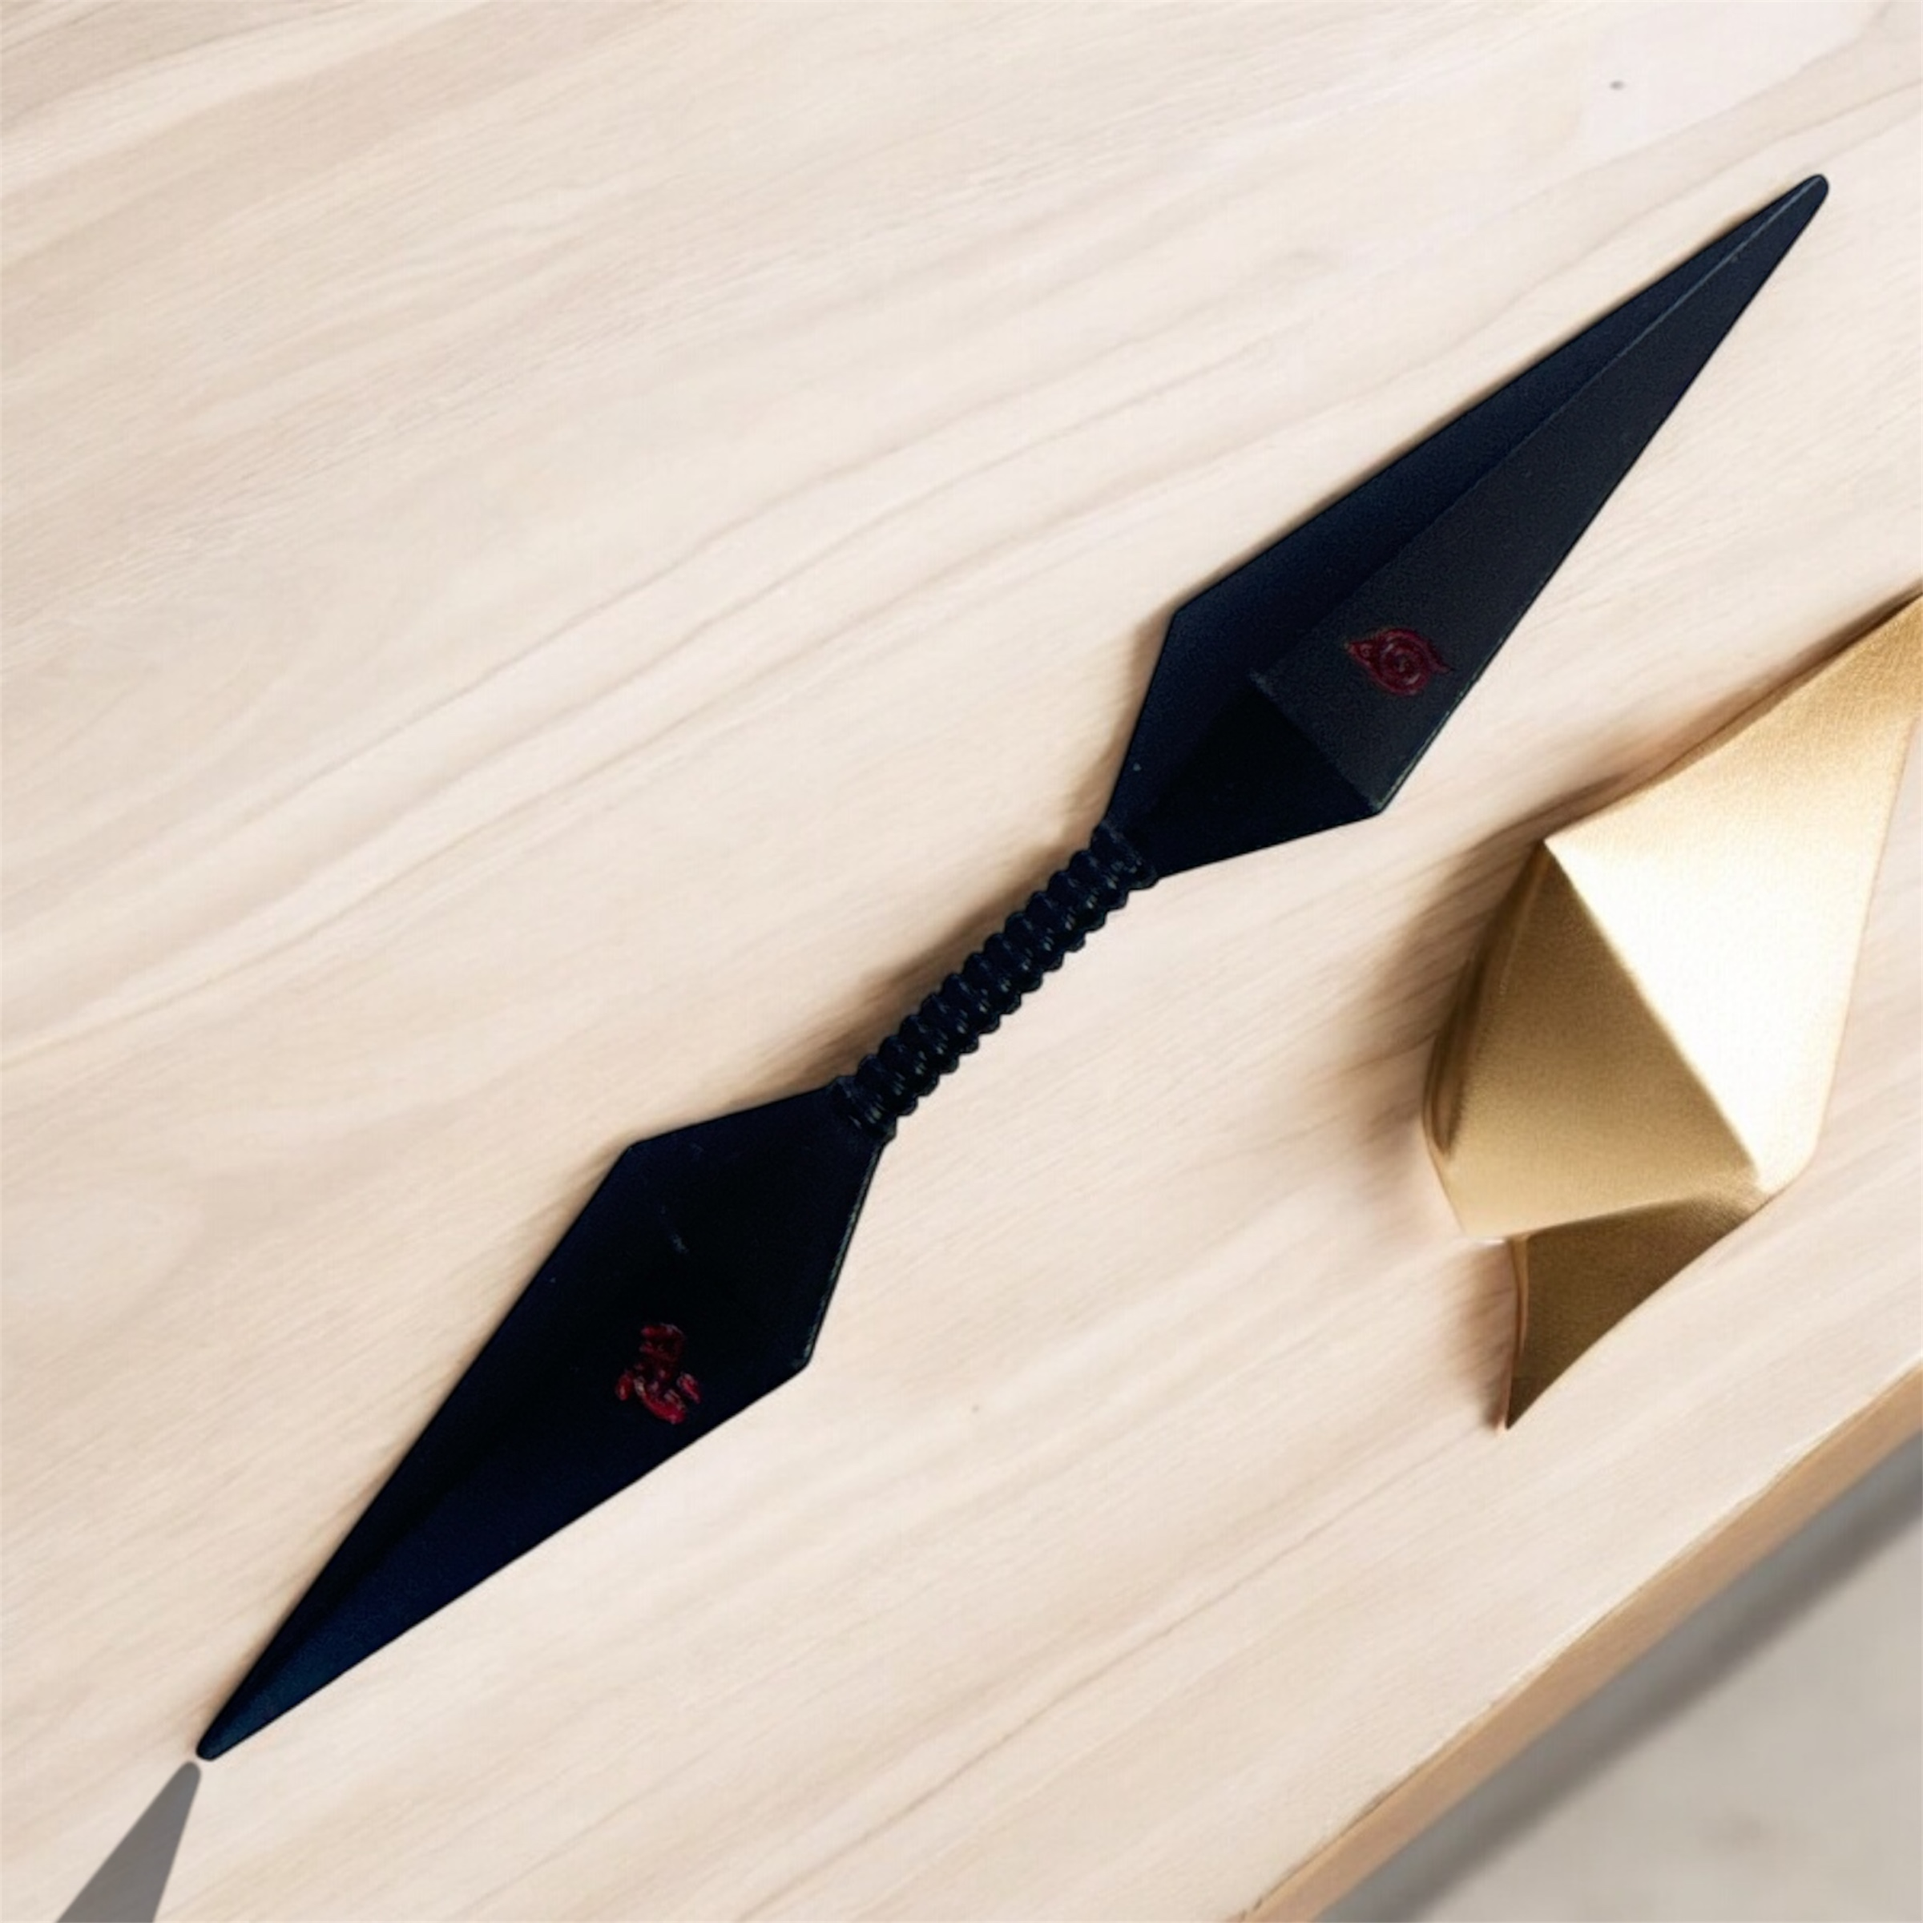
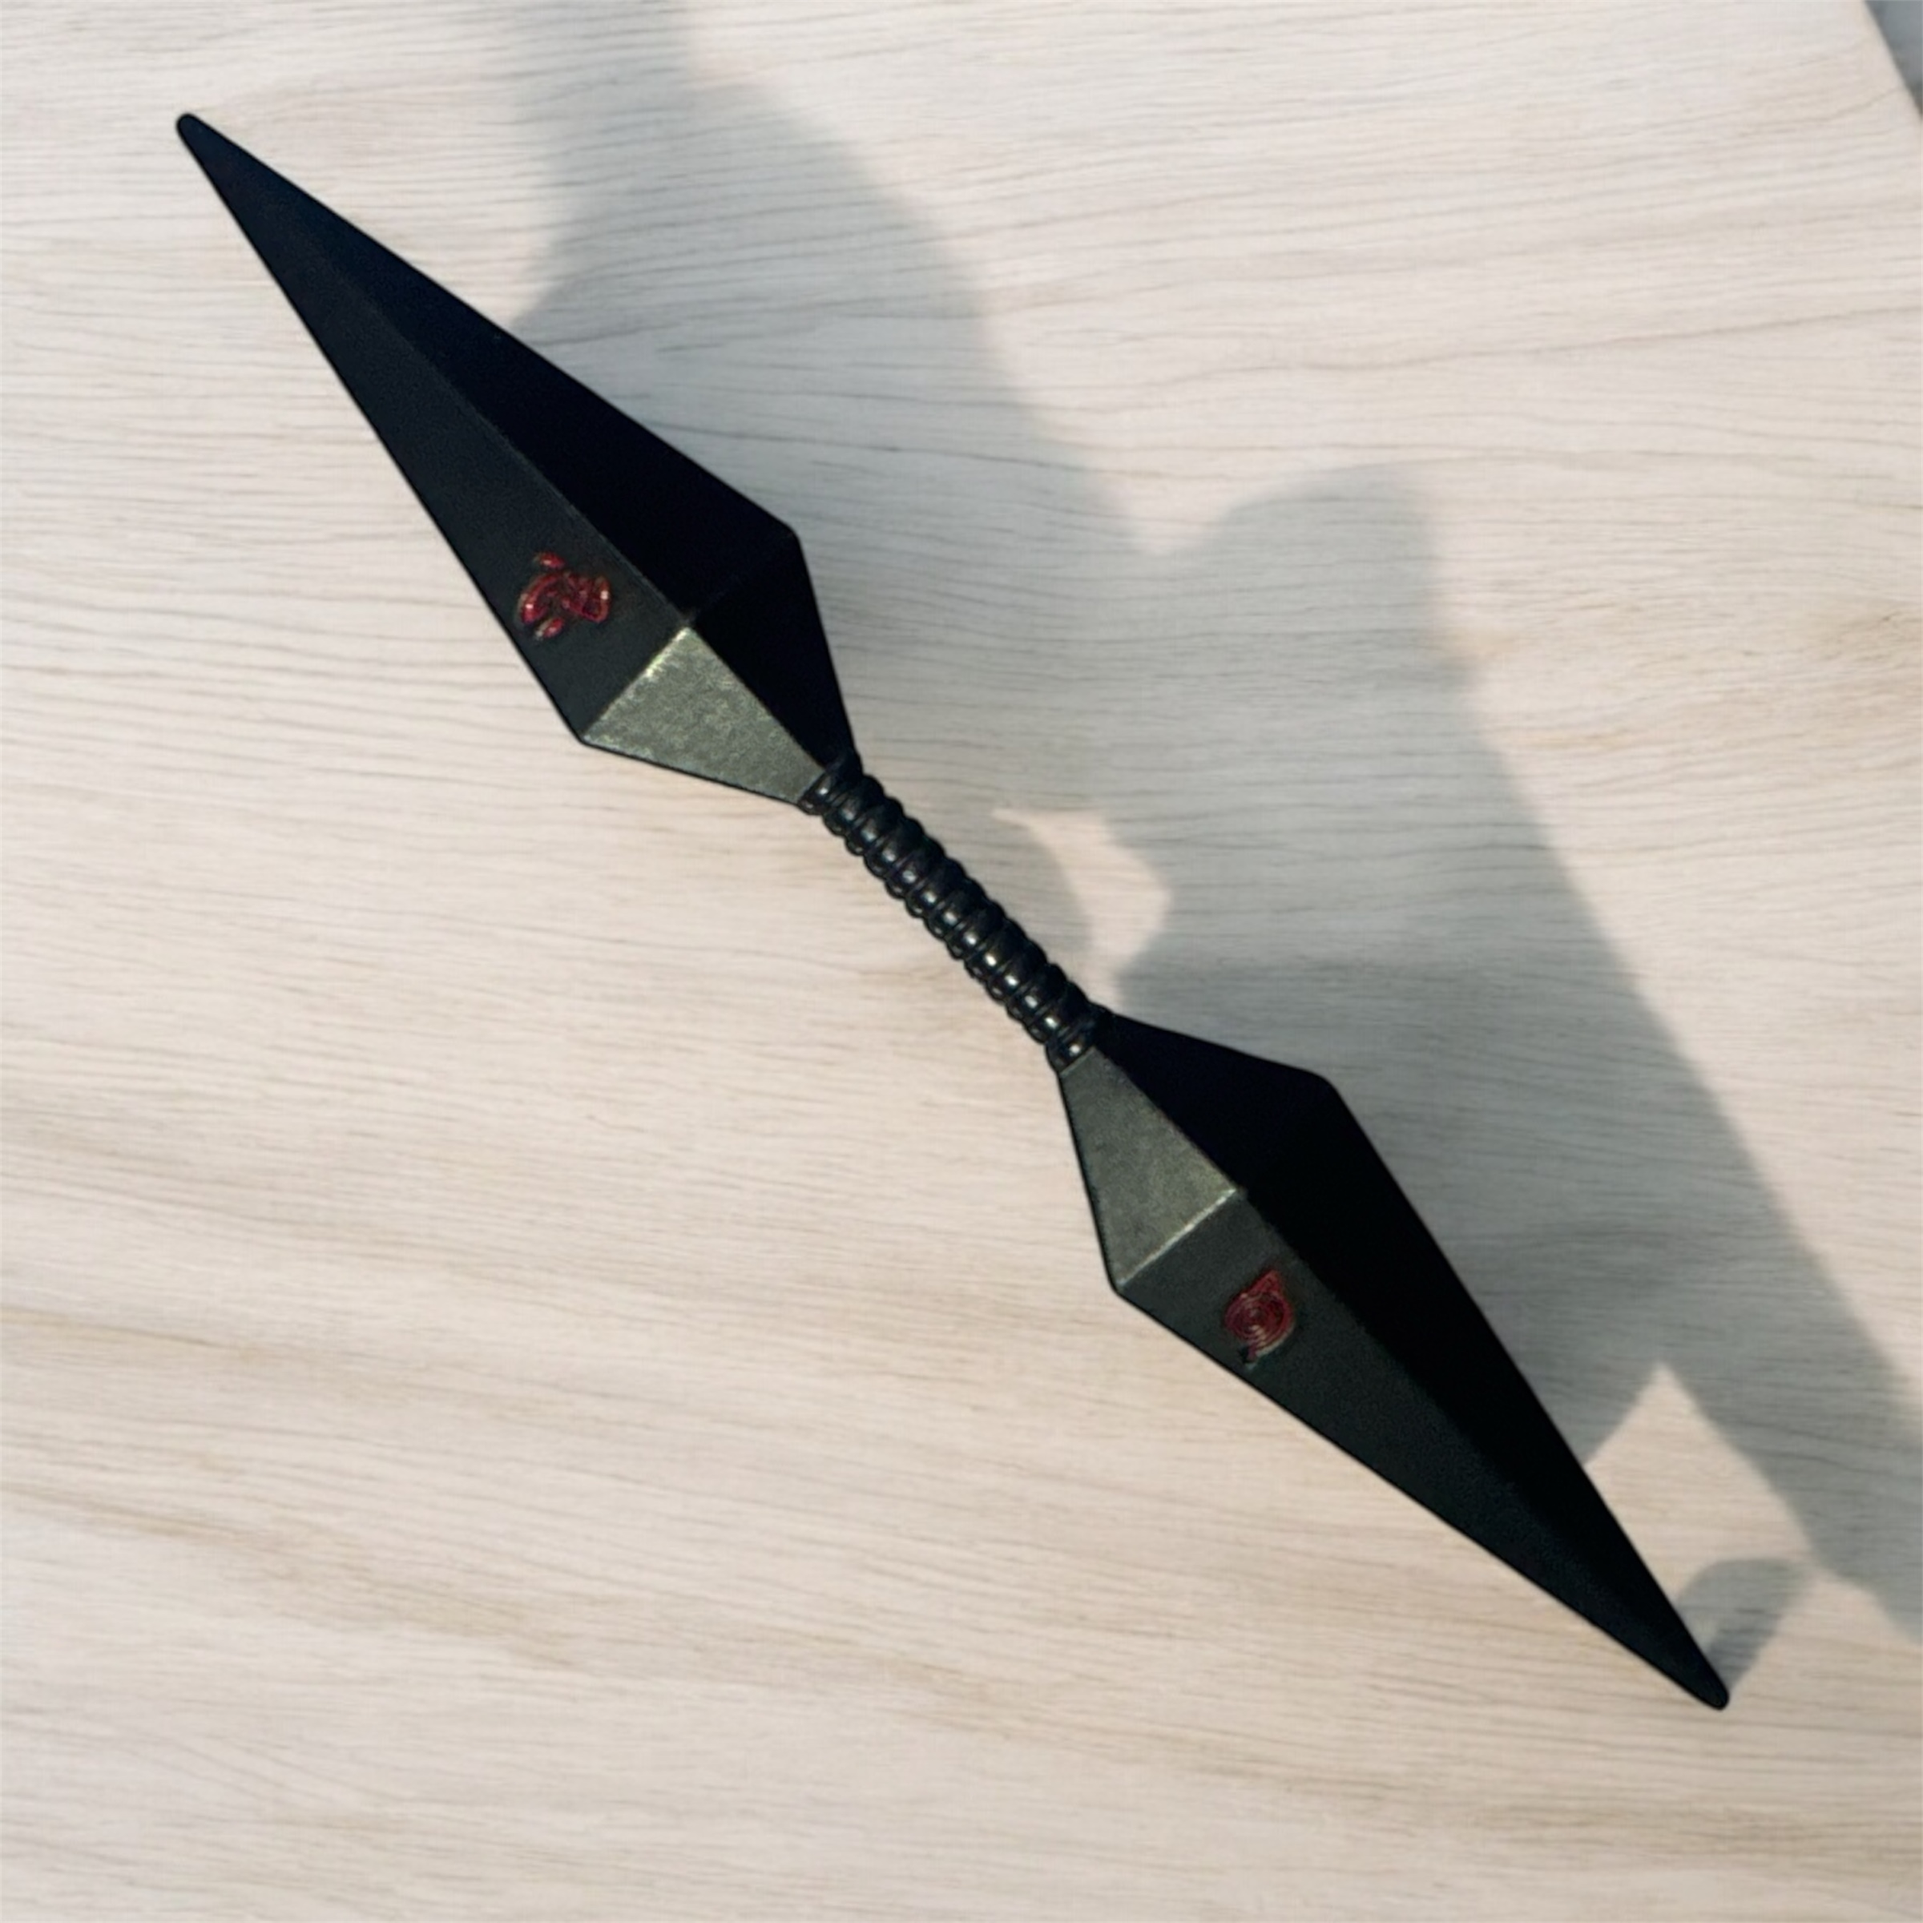
Added Anime Weapons and MiniAction figures images in Anime Section

diff --git a/src/Components/AnimeLovers.js b/src/Components/AnimeLovers.js
@@ -23,6 +23,14 @@ import ShinchanKiss from "../assets/BobbleHeads/Shinchan-Kiss.JPEG";
 import Spiderman from "../assets/BobbleHeads/Spiderman.JPEG";
 import Tom from "../assets/BobbleHeads/Tom.JPEG";
 
+import HarryPotterSet from "../assets/MiniActionFigures/HarryPotterSet.JPEG";
+import NarutoSet1 from "../assets/MiniActionFigures/NarutoSet1.JPEG";
+import NarutoSet2 from "../assets/MiniActionFigures/NarutoSet2.JPEG";
+import NarutoSet3 from "../assets/MiniActionFigures/NarutoSet3.JPEG";
+import NarutoSet4 from "../assets/MiniActionFigures/NarutoSet4.JPEG";
+import ShinchanSet1 from "../assets/MiniActionFigures/ShinchanSet1.JPEG";
+import ShinchanSet2 from "../assets/MiniActionFigures/ShinchanSet2.JPEG";
+
 
 import HarryPotterClock from "../assets/PocketWatches/HarryPotter-Clock.JPEG";
 
@@ -36,6 +44,16 @@ import KakashiHatakeNaruto from "../assets/Keychains/Kakashi-Hatake-Naruto.JPEG"
 import NarutoFaceMetal from "../assets/Keychains/Naruto-Face-Metal.JPEG";
 import Goku from "../assets/Keychains/Goku.JPEG";
 import UzumakiNaruto from "../assets/Keychains/Uzumaki-Naruto.JPEG";
+
+// import KaitanSword from "..assets/AnimeWeapons/KaitanSword.JPEG";
+import KusanagiSword from "../assets/AnimeWeapons/KusanagiSword.JPEG";
+import MedievalSword from "../assets/AnimeWeapons/MedievalSword.JPEG";
+import MerrimentKarambitBlue from "../assets/AnimeWeapons/MerrimentKarambitBlue.JPEG";
+import MerrimentKarambitRed from "../assets/AnimeWeapons/MerrimentKarambitRed.JPEG";
+import SpartanSentinelMetalSword from "../assets/AnimeWeapons/SpartanSentinelMetalSword.JPEG";
+// import SwordOfDestinyMetal from "../assets/AnimeWeapons/SwordOfDestiny.JPEG";
+import ZoroMiniKatana from "../assets/AnimeWeapons/ZoroMiniKatana.JPEG";
+
 
 
 
@@ -60,25 +78,34 @@ const products =[
 
 
   { id: 12, name: "Harry Potter Clock", price: 399, category: "Pocket Watches", images: [HarryPotterClock], inStock: true },
-  { id: 13, name: "Naruto Pocket Watch", price: 449, category: "Pocket Watches", images: [loading], inStock: true },
-  { id: 14, name: "One Piece Pocket Watch", price: 499, category: "Pocket Watches", images: [loading], inStock: true },
-  { id: 15, name: "Dragonball-Z Pocket Watch", price: 499, category: "Pocket Watches", images: [loading], inStock: true },
 
 
-  { id: 16, name: "Itachi Kunai Weapon", price: 349, category: "Weapons", images: [ItachiKunaiWeapon], inStock: true },
-  { id: 17, name: "Double Face Kunai Weapon", price: 249, category: "Weapons", images: [DoubleFaceKunaiWeapon], inStock: true },
-  { id: 18, name: "Zoro's Wado Ichimonji", price: 599, category: "Weapons", images: [loading], inStock: true },
-  { id: 19, name: "Zoro's Enma Sword", price: 299, category: "Weapons", images: [loading], inStock: true },
-  { id: 20, name: "Eddard Stark's Ice Sword", price: 499, category: "Weapons", images: [loading], inStock: true },
-  { id: 21, name: "Jon Snow's Longclaw", price: 399, category: "Weapons", images: [loading], inStock: true },
-  { id: 22, name: "Arya Stark's Needle", price: 599, category: "Weapons", images: [loading], inStock: true },
+
+  { id: 14, name: "Itachi Kunai Weapon", price: 349, category: "Anime Weapons", images: [ItachiKunaiWeapon], inStock: true },
+  { id: 15, name: "Double Face Kunai Weapon", price: 249, category: "Anime Weapons", images: [DoubleFaceKunaiWeapon], inStock: true },
+  // { id: 16, name: "Kaitan Sword - Metal", price: 899, category: "Anime Weapons", images: [KaitanSword], inStock: true },
+  { id: 17, name: "Kusanagi Sword", price: 799, category: "Anime Weapons", images: [KusanagiSword], inStock: true },
+  { id: 18, name: "Medieval Sword", price: 949, category: "Anime Weapons", images: [MedievalSword], inStock: true },
+  { id: 19, name: "Merriment Karambit - Blue", price: 699, category: "Anime Weapons", images: [MerrimentKarambitBlue], inStock: true },
+  { id: 20, name: "Merriment Karambit - Red", price: 699, category: "Anime Weapons", images: [MerrimentKarambitRed], inStock: true },
+  { id: 21, name: "Spartan Sentinel Metal Sword", price: 999, category: "Anime Weapons", images: [SpartanSentinelMetalSword], inStock: true },
+  // { id: 22, name: "Sword of Destiny - Metal", price: 979, category: "Anime Weapons", images: [SwordOfDestinyMetal], inStock: true },
+  { id: 13, name: "Zoro Mini Katana", price: 949, category: "Anime Weapons", images: [ZoroMiniKatana], inStock: true },
 
   { id: 23, name: "Goku Keychain", price: 279, category: "Keychains", images: [Goku], inStock: true },
   { id: 24, name: "Itachi Uchiha - Naruto Keychain", price: 279, category: "Keychains", images: [ItachiUchihaNaruto], inStock: true},
   { id: 25, name: "Kakashi Hatake - Naruto Keychain", price: 279, category: "Keychains", images: [KakashiHatakeNaruto], inStock: true },
   { id: 26, name: "Naruto Face Metal Keychain", price: 349, category: "Keychains", images: [NarutoFaceMetal], inStock: true },
   { id: 27, name: "Harry Potter Keychain", price: 299, category: "Keychains", images: [HarryPotter], inStock: true },
-  { id: 28, name: "Uzumaki - Naruto Keychain", price: 299, category: "Keychains", images: [UzumakiNaruto], inStock: true }
+  { id: 28, name: "Uzumaki - Naruto Keychain", price: 299, category: "Keychains", images: [UzumakiNaruto], inStock: true },
+
+  { id: 31, name: "Harry Potter Set", price: 899, category: "Merchandise Sets", images: [HarryPotterSet], inStock: true },
+  { id: 32, name: "Naruto Set 1", price: 699, category: "Merchandise Sets", images: [NarutoSet1], inStock: true },
+  { id: 33, name: "Naruto Set 2", price: 699, category: "Merchandise Sets", images: [NarutoSet2], inStock: true },
+  { id: 34, name: "Naruto Set 3", price: 699, category: "Merchandise Sets", images: [NarutoSet3], inStock: true },
+  { id: 35, name: "Naruto Set 4", price: 699, category: "Merchandise Sets", images: [NarutoSet4], inStock: true },
+  { id: 36, name: "Shinchan Set 1", price: 899, category: "Merchandise Sets", images: [ShinchanSet1], inStock: true },
+  { id: 37, name: "Shinchan Set 2", price: 899, category: "Merchandise Sets", images: [ShinchanSet2], inStock: true }
 ]
 
 
@@ -535,7 +562,7 @@ const AnimeLovers = () => {
     {/* Scrollable Filter Bar */}
     <FilterWrapper>
       <FilterBar>
-        {["All", "Action Figures","Bobbleheads","Keychains","Weapons","Pocket Watches"].map((category) => (
+        {["All", "Action Figures","Bobbleheads","Merchandise Sets","Anime Weapons","Keychains","Pocket Watches"].map((category) => (
           <FilterButton key={category} active={filter === category} onClick={() => setFilter(category)}>
             {category}
           </FilterButton>
